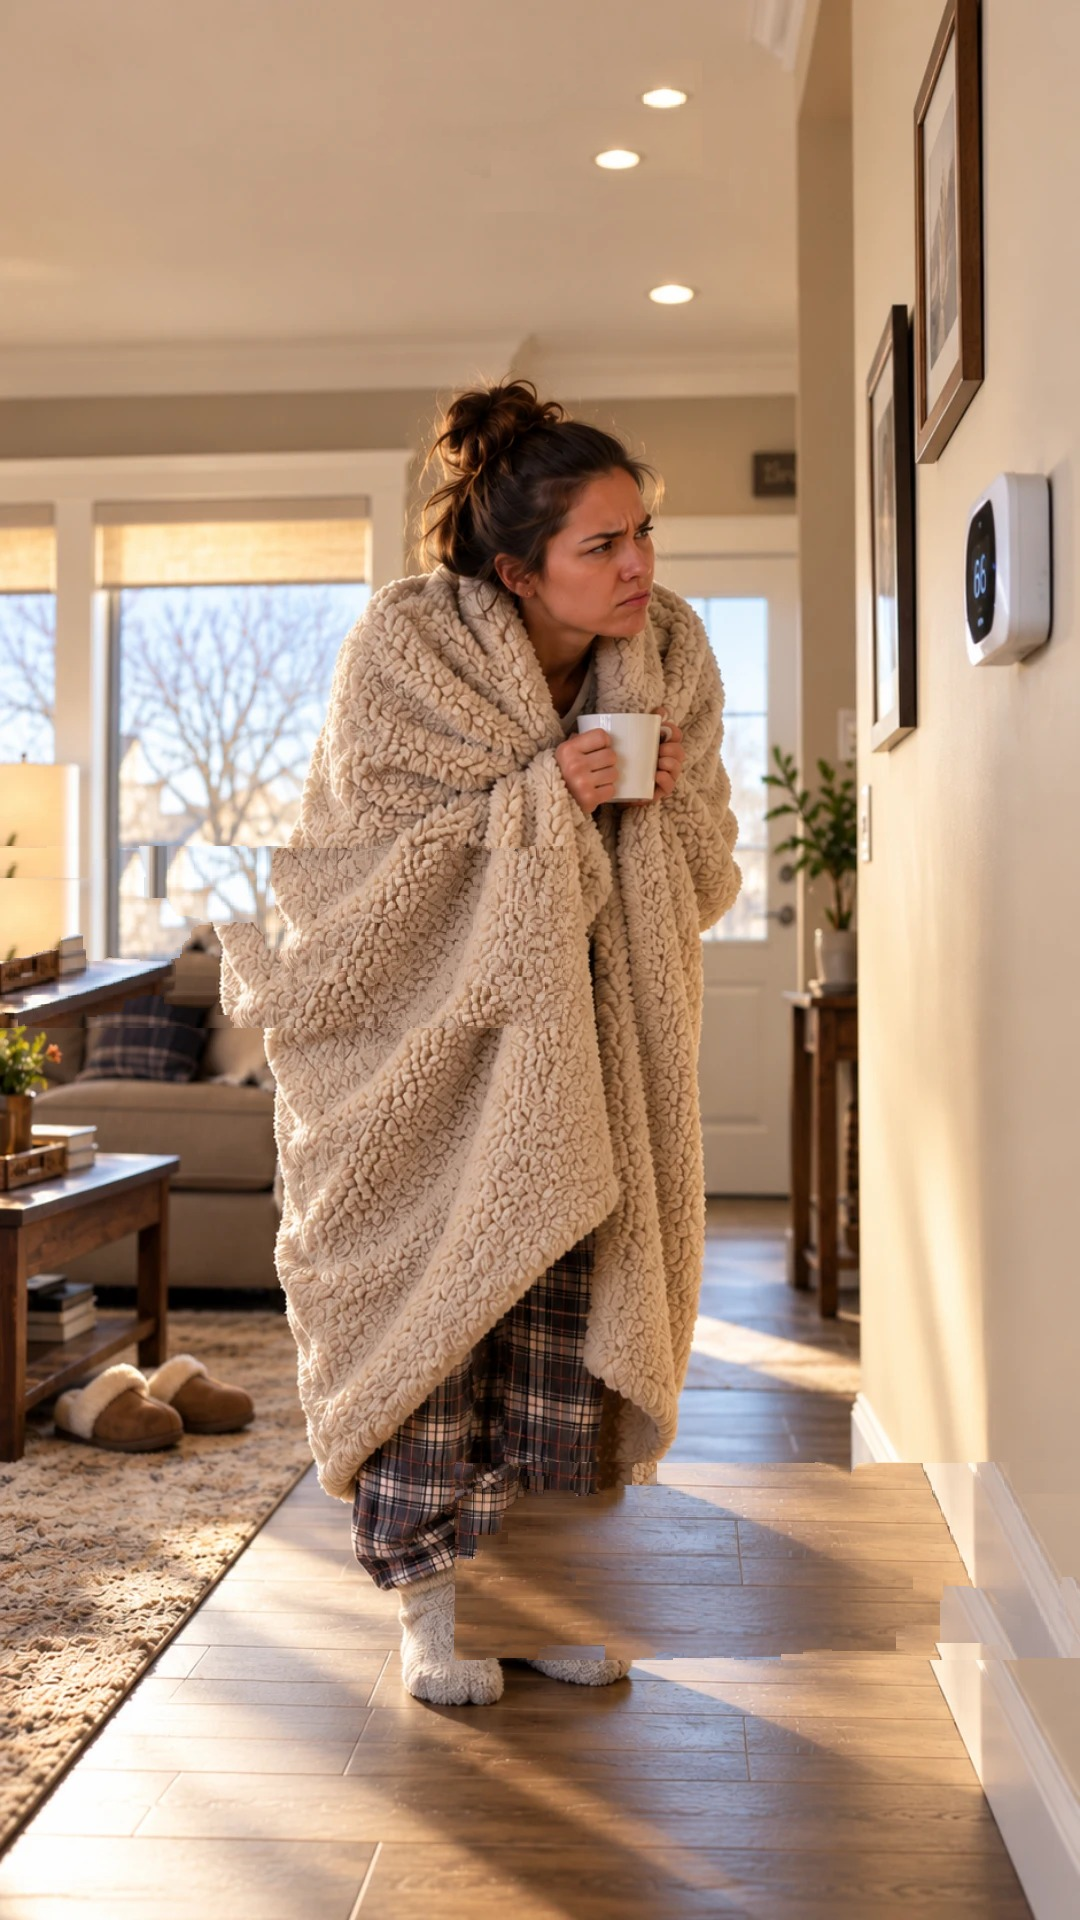
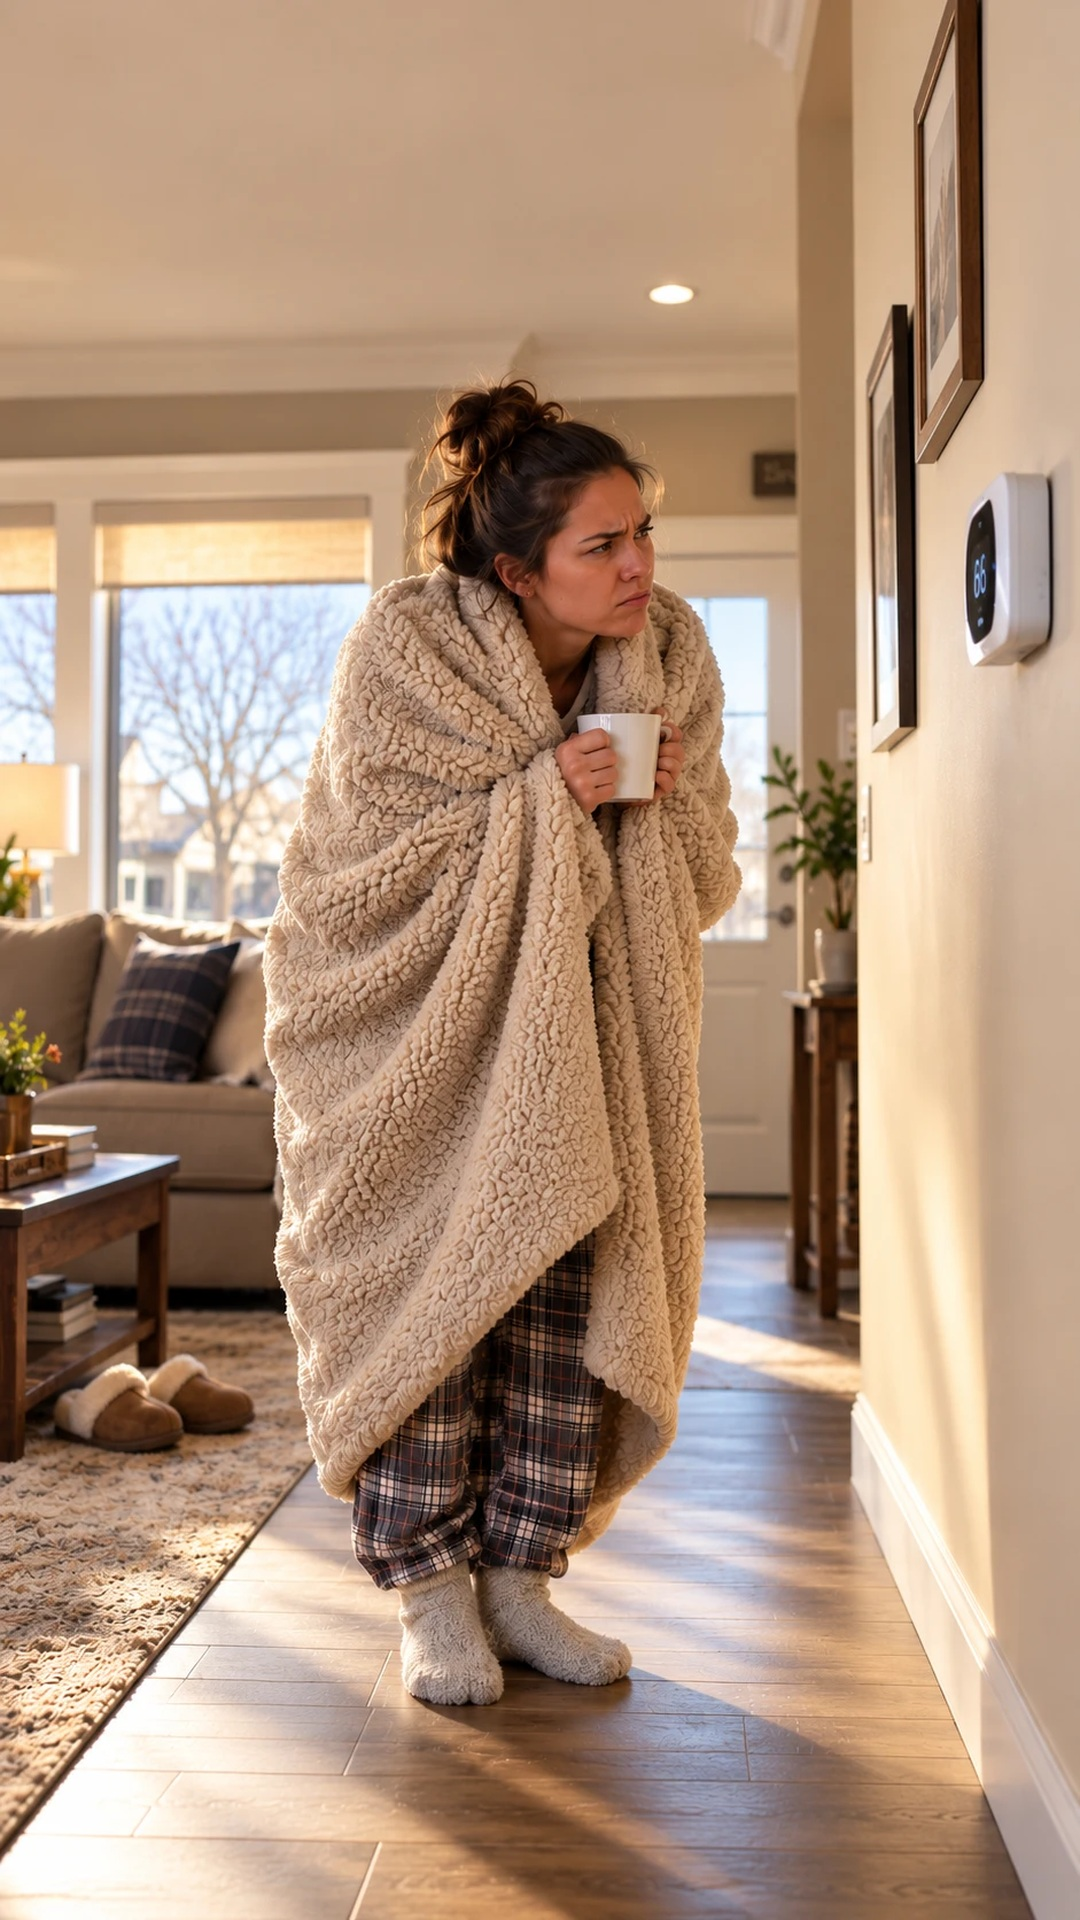
BTAC photo ad: use the client's clean photo; final render
Claude-Session: https://claude.ai/code/session_01SEAzRgdfmfKuWoFdKhUrVr

diff --git a/SETUP_LOG.md b/SETUP_LOG.md
@@ -508,3 +508,7 @@ Built our own instead, on Remotion's Player (same license as the rest of Remotio
   so the layout carries over.
 - Changes from the client's layout, for Reels: logo moved from y=80 to y=292 (the top 270 px is covered by Reels UI); the
   second text box moved up from the bottom (caption area) to y=982, ending above the action rail. QC PASS (66 frames).
+- Client sent the clean photos (2026-11-02). The tall 941x1672 version is the exact source of the design (mean pixel difference
+  1.8/255 outside the text areas), so it replaced the stand-in at 1080x1920 with no layout changes. The 4:5 and landscape
+  versions were not needed. Logo moved to y=272 at 250 px and the zoom centered at head height (focusY 395) so the logo
+  clears her head. QC PASS; final render 1080x1920, 11.0 s.
